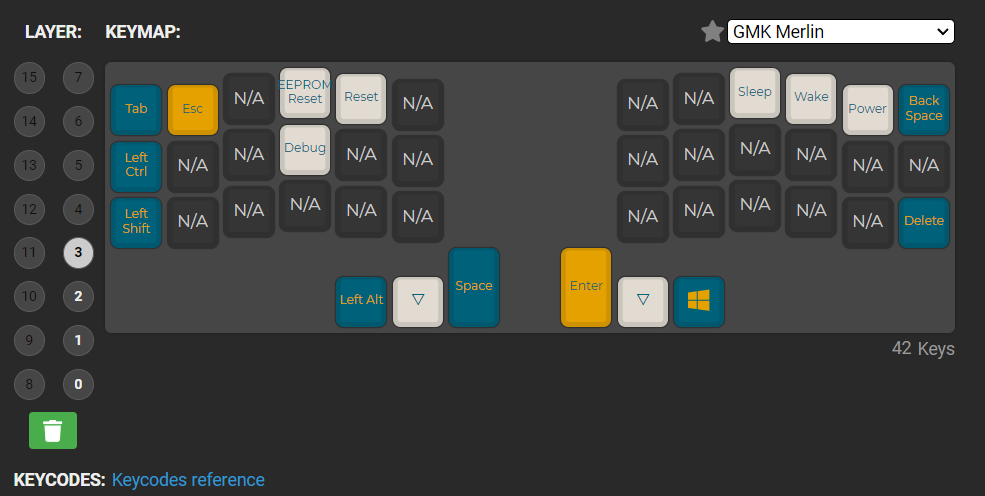
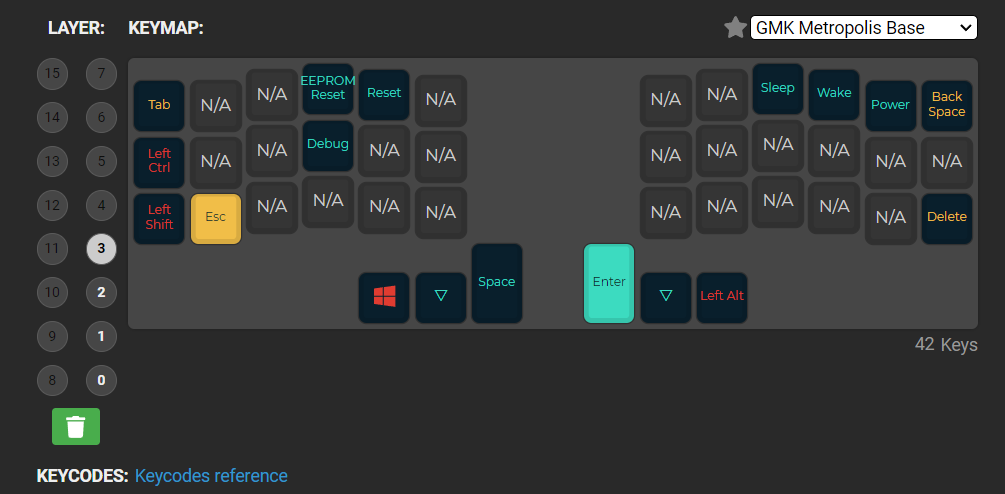
update key map

diff --git a/keyboards/crkbd/keymaps/Olejekglejek/keymap.c b/keyboards/crkbd/keymaps/Olejekglejek/keymap.c
@@ -9,10 +9,10 @@
 
 
 const uint16_t PROGMEM keymaps[][MATRIX_ROWS][MATRIX_COLS] = {
-        [0] = LAYOUT_split_3x6_3(KC_TAB, KC_Q, KC_W, KC_E, KC_R, KC_T, KC_Y, KC_U, KC_I, KC_O, KC_P, KC_BSPC, KC_LCTL, KC_A, KC_S, KC_D, KC_F, KC_G, KC_H, KC_J, KC_K, KC_L, KC_SCLN, KC_QUOT, KC_LSFT, KC_Z, KC_X, KC_C, KC_V, KC_B, KC_N, KC_M, KC_COMM, KC_DOT, KC_SLSH, KC_DEL, KC_LALT, MO(1), KC_SPC, KC_ENT, MO(2), KC_LGUI),
-        [1] = LAYOUT_split_3x6_3(KC_GRV, KC_1, KC_2, KC_3, KC_4, KC_5, KC_6, KC_7, KC_8, KC_9, KC_0, KC_BSPC, KC_LCTL, KC_MINS, KC_EQL, KC_LBRC, KC_RBRC, KC_NUHS, KC_LEFT, KC_DOWN, KC_UP, KC_RGHT, KC_NUBS, KC_INT1, KC_LSFT, KC_NO, KC_NO, KC_HOME, KC_END, KC_CALC, KC_PGDN, KC_WH_D, KC_WH_U, KC_PGUP, KC_MYCM, KC_DEL, KC_LALT, KC_TRNS, KC_SPC, KC_ENT, MO(3), KC_LGUI),
-        [2] = LAYOUT_split_3x6_3(KC_TAB, KC_ESC, KC_NO, KC_NO, KC_F11, KC_F12, KC_NO, KC_NO, KC_MRWD, KC_MFFD, KC_MUTE, KC_BSPC, KC_LCTL, KC_F1, KC_F2, KC_F3, KC_F4, KC_F5, KC_MPLY, KC_MSTP, KC_MPRV, KC_MNXT, KC_VOLD, KC_VOLU, KC_LSFT, KC_F6, KC_F7, KC_F8, KC_F9, KC_F10, KC_NO, KC_NO, KC_NO, KC_NO, KC_NO, KC_DEL, KC_LALT, MO(3), KC_SPC, KC_ENT, KC_TRNS, KC_LGUI),
-        [3] = LAYOUT_split_3x6_3(KC_TAB, KC_ESC, KC_NO, EE_CLR, QK_BOOT, KC_NO, KC_NO, KC_NO, KC_SLEP, KC_WAKE, KC_PWR, KC_BSPC, KC_LCTL, KC_NO, KC_NO, DB_TOGG, KC_NO, KC_NO, KC_NO, KC_NO, KC_NO, KC_NO, KC_NO, KC_NO, KC_LSFT, KC_NO, KC_NO, KC_NO, KC_NO, KC_NO, KC_NO, KC_NO, KC_NO, KC_NO, KC_NO, KC_DEL, KC_LALT, KC_TRNS, KC_SPC, KC_ENT, KC_TRNS, KC_LGUI)
+        [0] = LAYOUT_split_3x6_3(KC_TAB, KC_Q, KC_W, KC_E, KC_R, KC_T, KC_Y, KC_U, KC_I, KC_O, KC_P, KC_BSPC, KC_LCTL, KC_A, KC_S, KC_D, KC_F, KC_G, KC_H, KC_J, KC_K, KC_L, KC_SCLN, KC_QUOT, KC_LSFT, KC_Z, KC_X, KC_C, KC_V, KC_B, KC_N, KC_M, KC_COMM, KC_DOT, KC_SLSH, KC_DEL, KC_LGUI, MO(1), KC_SPC, KC_ENT, MO(2), KC_LALT),
+        [1] = LAYOUT_split_3x6_3(KC_GRV, KC_1, KC_2, KC_3, KC_4, KC_5, KC_6, KC_7, KC_8, KC_9, KC_0, KC_BSPC, KC_LCTL, KC_MINS, KC_EQL, KC_LBRC, KC_RBRC, KC_NUHS, KC_LEFT, KC_DOWN, KC_UP, KC_RGHT, KC_NUBS, KC_INT1, KC_LSFT, KC_ESC, KC_NO, KC_HOME, KC_END, KC_CALC, KC_PGDN, KC_WH_D, KC_WH_U, KC_PGUP, KC_MYCM, KC_DEL, KC_LGUI, KC_TRNS, KC_SPC, KC_ENT, MO(3), KC_LALT),
+        [2] = LAYOUT_split_3x6_3(KC_TAB, KC_F1, KC_F2, KC_F3, KC_F4, KC_F5, KC_NO, KC_NO, KC_MRWD, KC_MFFD, KC_MUTE, KC_BSPC, KC_LCTL, KC_F6, KC_F7, KC_F8, KC_F9, KC_F10, KC_MPLY, KC_MSTP, KC_MPRV, KC_MNXT, KC_VOLD, KC_VOLU, KC_LSFT, KC_ESC, KC_NO, KC_NO, KC_F11, KC_F12, KC_NO, KC_NO, KC_NO, KC_NO, KC_NO, KC_DEL, KC_LGUI, MO(3), KC_SPC, KC_ENT, KC_TRNS, KC_LALT),
+        [3] = LAYOUT_split_3x6_3(KC_TAB, KC_NO, KC_NO, EE_CLR, QK_BOOT, KC_NO, KC_NO, KC_NO, KC_SLEP, KC_WAKE, KC_PWR, KC_BSPC, KC_LCTL, KC_NO, KC_NO, DB_TOGG, KC_NO, KC_NO, KC_NO, KC_NO, KC_NO, KC_NO, KC_NO, KC_NO, KC_LSFT, KC_ESC, KC_NO, KC_NO, KC_NO, KC_NO, KC_NO, KC_NO, KC_NO, KC_NO, KC_NO, KC_DEL, KC_LGUI, KC_TRNS, KC_SPC, KC_ENT, KC_TRNS, KC_LALT)
 };
 
 #if defined(ENCODER_ENABLE) && defined(ENCODER_MAP_ENABLE)

diff --git a/keyboards/crkbd/keymaps/Olejekglejek/pic.md b/keyboards/crkbd/keymaps/Olejekglejek/pic.md
@@ -24,7 +24,7 @@ qmk setup Olejekglejek/qmk_firmware
 or
 qmk setup -H /d/Code/keyb/qmk_firmware Olejekglejek/qmk_firmware
 
-qmk compile -e CONVERT_TO=elite_pi -flto=auto
+qmk compile -e CONVERT_TO=elite_pi
 
 Convert olejekglejek.json to keymap.c file using QMK-MSYS terminal
 
